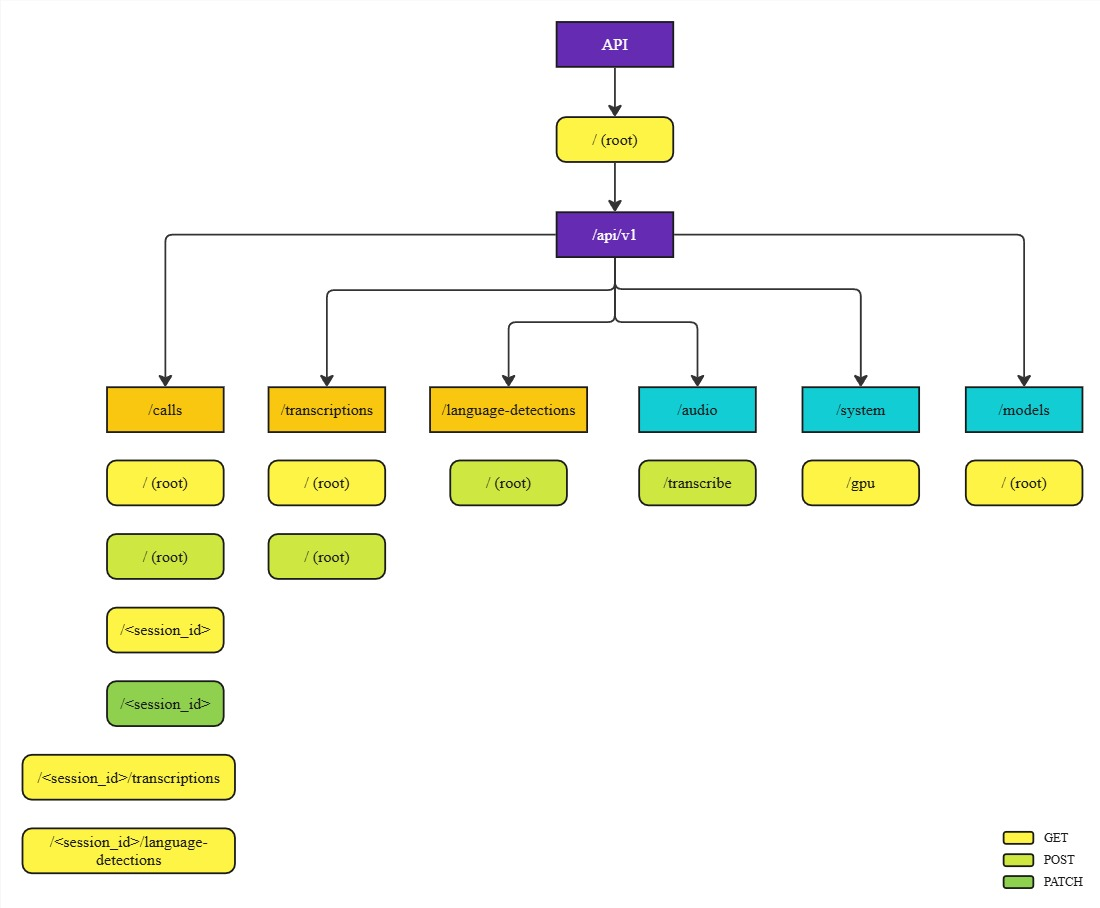
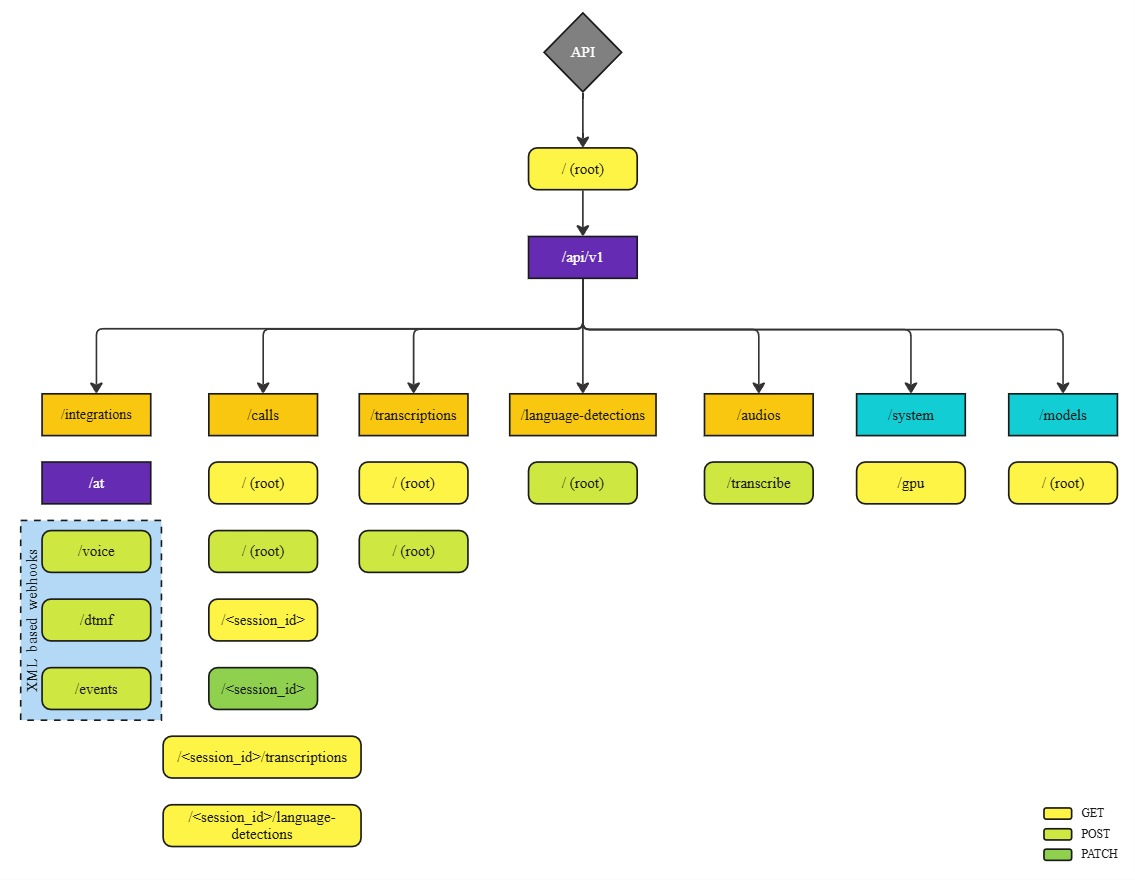
Modified api structure to accomodate xml based webhooks

Changed region(s): [[0.0, 0.0, 0.9891, 0.9818], [0.8964, 0.8898, 0.9891, 0.9818]]

diff --git a/src/api/integrations/at.py b/src/api/integrations/at.py
@@ -1,4 +1,4 @@
-# app/src/api/integrations/at_integration.py
+# app/src/api/integrations/at.py
 from fastapi import APIRouter, Depends, Request, Form, Response
 from sqlalchemy.orm import Session
 from typing import Optional, Dict, Any
@@ -13,12 +13,14 @@ from db.models import Customer, CallSession
 from src.utils import log_call_to_file
 from src.utils.helpers import gen_uuid_12
 from static.constants import logger
-from src.api.router import router
+from . import router
 from src.utils.at_utils import log_call_to_file
 
 # Initialize Africa's Talking SDK
 africastalking.initialize(settings.AT_USER, settings.AT_API_KEY)
 voice = africastalking.Voice
+
+router.prefix = "/at"
 
 # Helper function to build Africa's Talking Voice XML
 def build_voice_response(say_text=None, play_url=None, get_digits=None, record=False, **kwargs):
@@ -97,7 +99,6 @@ def build_voice_response(say_text=None, play_url=None, get_digits=None, record=F
     return response
 
 # Webhook for incoming voice calls
-@router.post("/voice")
 @router.post("/voice")
 async def voice_webhook(
     request: Request,

diff --git a/src/api/calls.py b/src/api/calls.py
@@ -22,13 +22,15 @@ class CallResponse(BaseModel):
 
     class Config:
         orm_mode = True
+        
+router.prefix = "/calls"
 
-@router.get("/calls", response_model=list[CallResponse])
+@router.get("/", response_model=list[CallResponse])
 def list_calls(db: Session = Depends(get_db)):
     calls = db.query(CallSession).all()
     return calls
 
-@router.get("/calls/{session_id}", response_model=CallResponse)
+@router.get("/{session_id}", response_model=CallResponse)
 def get_call(session_id: str, db: Session = Depends(get_db)):
     call_session = db.query(CallSession).filter(CallSession.session_id == session_id).first()
 
@@ -37,7 +39,7 @@ def get_call(session_id: str, db: Session = Depends(get_db)):
     
     return call_session
 
-@router.patch("/calls/{session_id}")
+@router.patch("/{session_id}")
 def end_call(
     session_id: str, 
     recording_url: Optional[str] = None, 

diff --git a/main.py b/main.py
@@ -3,7 +3,7 @@ from fastapi import FastAPI
 import torch
 from db.session import create_db_and_tables
 from src.api import audio, calls, transcriptions
-from src.api.integrations import at_integration 
+from src.api.integrations import at 
 from config import settings
 
 app = FastAPI(title="Zeipo.ai API")
@@ -36,4 +36,4 @@ async def root():
 app.include_router(calls.router, prefix=settings.API_V1_STR)
 app.include_router(transcriptions.router, prefix=settings.API_V1_STR)
 app.include_router(audio.router, prefix=settings.API_V1_STR)
-app.include_router(at_integration.router, prefix=settings.API_V1_STR)
+app.include_router(at.router, prefix=settings.API_V1_STR)

diff --git a/src/api/system.py b/src/api/system.py
@@ -3,7 +3,8 @@ import torch
 from static.constants import logger
 from src.api.router import router
 
-# Get available device - Enhanced with better diagnostic logging
+router.prefix = "/system"
+
 def get_device():
     """Detect and configure the optimal device with detailed logging."""
     try:
@@ -30,7 +31,7 @@ def get_device():
         return "cpu"
 
 
-@router.get("/system/gpu")
+@router.get("/gpu")
 async def gpu_info():
     """Detailed information about available GPU resources."""
     # Existing GPU info code from api.py

diff --git a/src/api/models.py b/src/api/models.py
@@ -10,6 +10,8 @@ from src.api.router import router
 
 models: Dict[str, whisper.Whisper] = {}
 
+router.prefix = "/models"
+
 def get_model(name: str):
     """Load and cache the requested model."""
     if name not in AVAILABLE_MODELS:
@@ -25,7 +27,7 @@ def get_model(name: str):
     return models[name]
 
 
-@router.get("/models")
+@router.get("/")
 async def list_models():
     """List available models and their status."""
     # Existing models code from api.py

diff --git a/src/api/audio.py b/src/api/audio.py
@@ -11,6 +11,8 @@ from db.session import get_db
 from src.api.models import get_model
 from src.api.router import router
 
+router.prefix = "/audios"
+
 async def process_audio(file_path: str, model_name: str, task: str, language: Optional[str] = None):
     """Process audio file with Whisper."""
     try:

diff --git a/tests/test_at.py b/tests/test_at.py
@@ -6,7 +6,7 @@ import json
 from main import app
 from xml.etree import ElementTree as ET
 
-from src.api.integrations.at_integration import build_voice_response
+from src.api.integrations.at import build_voice_response
 from src.utils.helpers import gen_uuid_12
 
 client = TestClient(app)

diff --git a/src/api/integrations/__init__.py b/src/api/integrations/__init__.py
@@ -1,0 +1,3 @@
+from src.api.router import router
+
+router.prefix = "/integrations"
